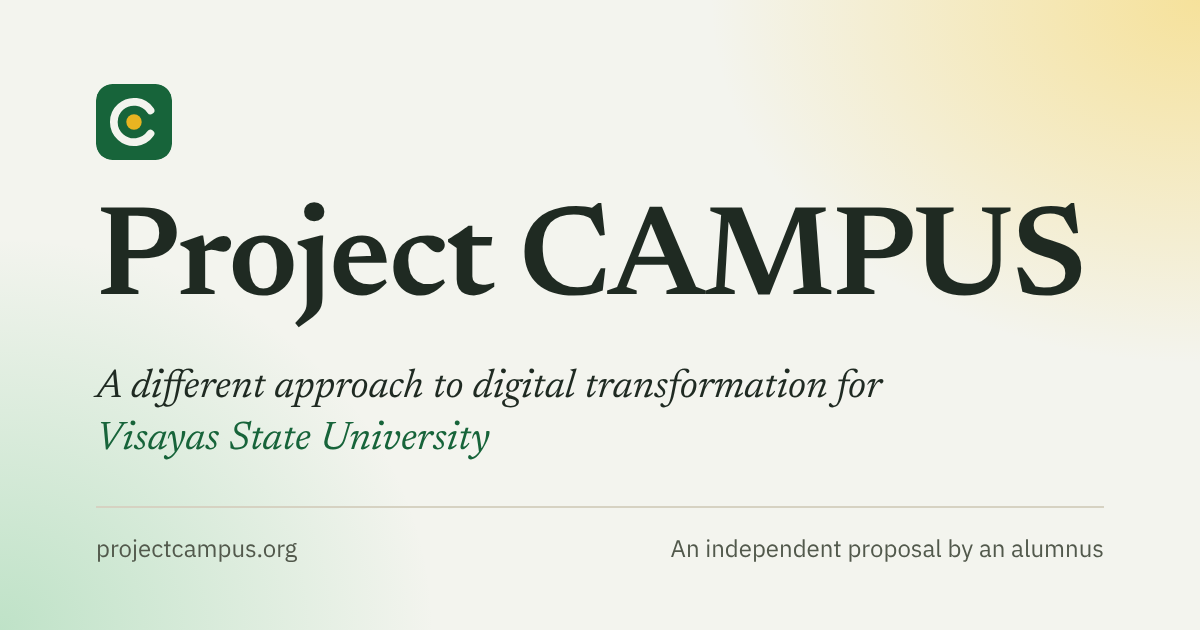
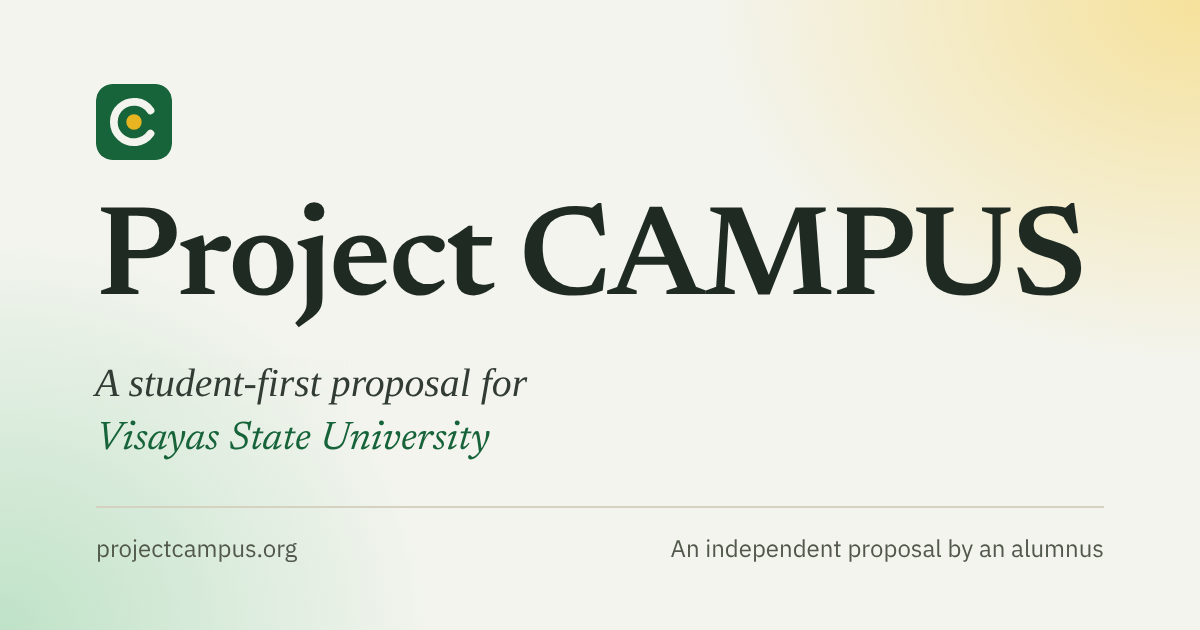
D-183: student-first framing on the landing page
Retire "a different approach to digital transformation" from the
description, the preview text, the lead paragraph, and the preview card.

Claude-Session: https://claude.ai/code/session_013o6ix4CXUutCxx9qJZQy1n

Changed region(s): [[0.0617, 0.573, 0.74, 0.6635]]

diff --git a/index.html b/index.html
@@ -4,7 +4,7 @@
 <meta charset="UTF-8">
 <meta name="viewport" content="width=device-width, initial-scale=1">
 <title>Project CAMPUS</title>
-<meta name="description" content="An independent proposal by one alumnus for a different approach to digital transformation at Visayas State University: a social/academic network for VSU's academic community, with a campus intranet as its long-term infrastructure. Not affiliated with Visayas State University.">
+<meta name="description" content="An independent, student-first proposal by one alumnus for Visayas State University: a social/academic network for VSU's academic community, with a campus intranet as its long-term infrastructure. Not affiliated with Visayas State University.">
 <!-- Kept out of search results until VSU acknowledges or adopts CAMPUS (D-173). -->
 <meta name="robots" content="noindex, nofollow">
 <meta name="referrer" content="no-referrer">
@@ -12,12 +12,12 @@
 <meta property="og:type" content="website">
 <meta property="og:site_name" content="Project CAMPUS">
 <meta property="og:title" content="Project CAMPUS">
-<meta property="og:description" content="An independent proposal by one alumnus for a different approach to digital transformation at Visayas State University. Not affiliated with Visayas State University.">
+<meta property="og:description" content="An independent, student-first proposal by one alumnus for Visayas State University. Not affiliated with Visayas State University.">
 <meta property="og:url" content="https://projectcampus.org/">
 <meta property="og:image" content="https://projectcampus.org/img/og-card.png">
 <meta property="og:image:width" content="1200">
 <meta property="og:image:height" content="630">
-<meta property="og:image:alt" content="Project CAMPUS: a different approach to digital transformation for Visayas State University. An independent proposal by an alumnus.">
+<meta property="og:image:alt" content="Project CAMPUS: a student-first proposal for Visayas State University. An independent proposal by an alumnus.">
 <meta name="twitter:card" content="summary_large_image">
 <link rel="icon" href="img/favicon.svg" type="image/svg+xml">
 <link rel="icon" href="favicon.ico" sizes="32x32">
@@ -75,7 +75,7 @@
       <p class="eyebrow rise r1">Concept and research stage</p>
       <h1 id="title" class="rise r2">Project CAMPUS</h1>
       <p class="subtitle rise r3">Connecting All Members, Places, and University Services</p>
-      <p class="lead rise r4">A proposal for a different approach to digital transformation at Visayas State University: a digital layer over the physical university that would connect its people, places, knowledge, and services.</p>
+      <p class="lead rise r4">A student-first proposal for Visayas State University: a digital layer over the physical university that would connect students with the people, places, knowledge, and services they need, alongside VSU's own systems.</p>
       <div class="actions rise r5">
         <a class="btn btn-primary" href="https://docs.projectcampus.org/">Read the proposal <span class="arrow" aria-hidden="true">&rarr;</span></a>
         <a class="btn btn-ghost" href="#proposes">See what it proposes <span aria-hidden="true">&darr;</span></a>
